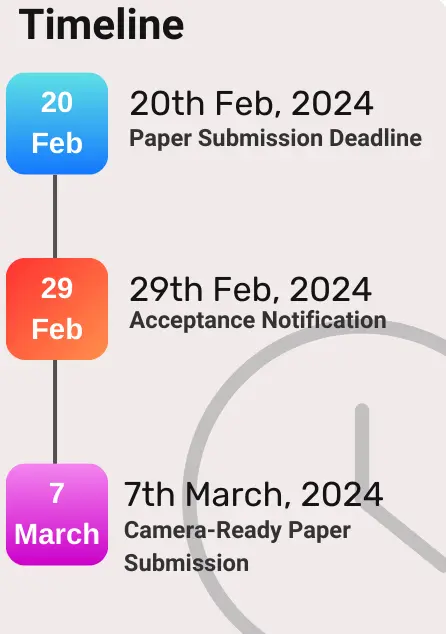
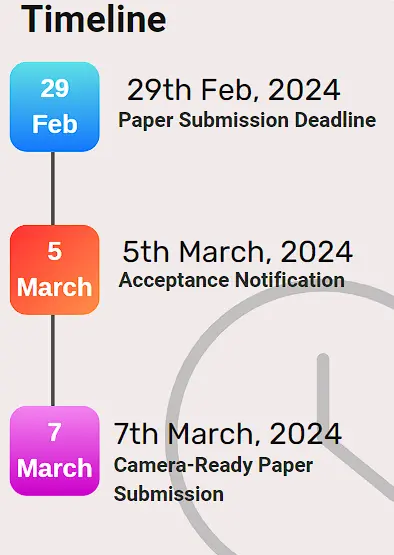
Dates updated

diff --git a/index.html b/index.html
@@ -101,23 +101,36 @@
         <div class="content-container">
 
             <div class="timer-container">
-                <!-- <h1>
+                <h1>
                     Hurry!! Only
-                </h1> -->
+                </h1>
                 <div class="timer-wrapper">
-                    <h1>
-                        Submissions Closed!
-                    </h1>
+                    <div>
+                        <p id="days"></p>
+                        <p class="timer-words">Days</p>
+                    </div> <span class="colon">:</span>
+                    <div>
+                        <p id="hours"></p>
+                        <p class="timer-words">Hours</p>
+                    </div> <span class="colon">:</span>
+                    <div>
+                        <p id="minutes"></p>
+                        <p class="timer-words">Minutes</p>
+                    </div> <span class="colon">:</span>
+                    <div>
+                        <p id="seconds"></p>
+                        <p class="timer-words">Seconds</p>
+                    </div>
                 </div> <br>
-                <!-- <h1>
+                <h1>
                     left for paper submission
-                </h1> -->
+                </h1>
             </div> <br> <br>
 
-            <!-- <a href="submission.html"> <button class="register-btn">
+            <a href="submission.html"> <button class="register-btn">
                     Submit your papers now!
                 </button> </a>
-            <hr> -->
+            <hr>
 
             <h2 class="college-heading">
                 ABOUT PRESIDENCY COLLEGE(Autonomous)
